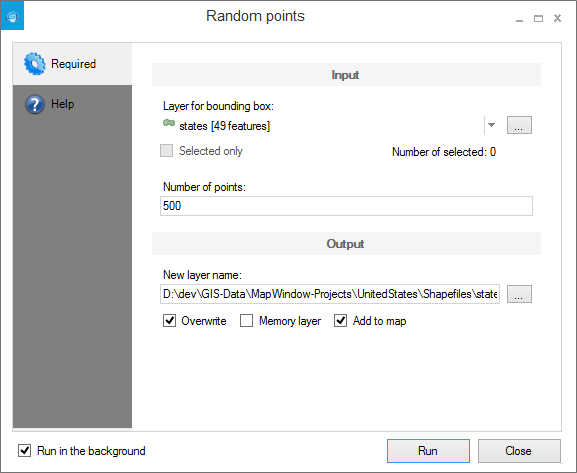
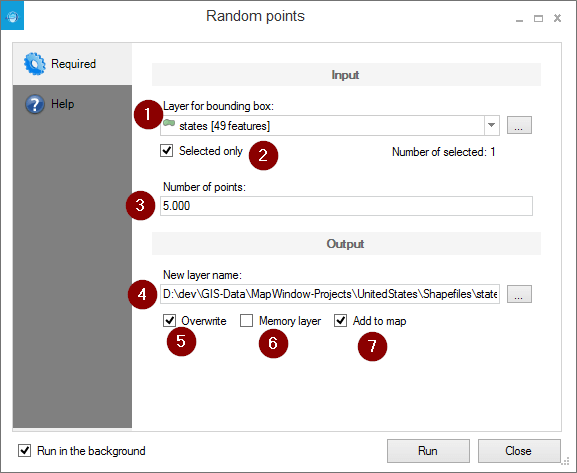
Updated manual for the random points tool and updated the template manual. I can now create the other manuals.

diff --git a/src/MW5.Tools/Manuals/RandomPointsTool.html b/src/MW5.Tools/Manuals/RandomPointsTool.html
@@ -34,32 +34,37 @@
                 <h1>Random points tool</h1>
                 If you need randomly generated point within a certain bounding box you can use this tool. Those points can, for example, be used to survey.<br />
 
-                <img class="img-responsive" style="float: left;" src="img/randompoints_required.png" alt="Required tab of the Random Points tool" width="577" height="473" />
-                <img class="img-responsive hidden-xs" style="float: right; margin-left: 5px;" src="img/randompoints_task.png" alt="Task of the Random Points tool" width="304" height="430" />
-                <br style="clear: left;" />
-                <p style="clear: both;">
-                    First determine the bounding box by selecting a layer.<br />
-                    Next select the number of points that should be created.<br />
-                    The output layer name is generated based on the input layer, but can be modified.<br />
-                    Check 'Overwrite' if you want to overwrite existing files. You'll be prompted otherwise if the output file already exists.<br />
-                    Check 'Memory layer' if you don't wan't to save the file to disk, but keep it only in memory.<br />
-                    'Add to map' is checked by default and will add the result to the map.<br />
-                    In the 'Tasks' panel you can see the progress of this task.
-                </p>
+                <figure>
+                    <img class="img-responsive" src="img/randompoints_required.png" alt="Required tab of the Random Points tool" width="577" height="473" />
+                    <figcaption>The required options for this tool.</figcaption>
+                </figure>
+                <ol>
+                    <li>Select the layer which bounding box will be used.</li>
+                    <li>Optionally select if only the selected shapes should be used for the bounding box.</li>
+                    <li>Select the number of points that should be created.</li>
+                    <li>The output layer name is generated based on the input layer, but can be modified.</li>
+                    <li>Check 'Overwrite' if you want to overwrite existing files. You'll be prompted otherwise if the output file already exists.</li>
+                    <li>Check 'Memory layer' if you don't want to save the file to disk, but make it only in memory.</li>
+                    <li>'Add to map' is checked by default and will add the result to the map.</li>
+                </ol>
+                <figure>
+                    <img class="img-responsive" src="img/randompoints_result.png" alt="The result of only using a selected state." width="971" height="844" />
+                    <figcaption>The result, only using a selected state.</figcaption>
+                </figure>
             </article>
         </div>
     </section>
 
     <section class="container">
         <div class="row" style="background-color: white">
-            <article class="col-md-4 hidden-xs">
+            <article class="col-lg-4 col-md-6 col-sm-6 col-xs-12">
                 <!-- 300x250 ad tag -->
                 <div data-type="ad" data-publisher="mapwindow.org" data-zone="ron" data-format="300x250" data-tags="GIS%2cMapping%2cMap%2cC%23%2cMaps%2cWMS%2cgeospatial"></div>
             </article>
-            <article class="col-md-4 hidden-xs">
+            <article class="col-lg-4 col-md-6 col-sm-6 hidden-xs">
                 <div data-type="ad" data-publisher="mapwindow.org" data-zone="ron" data-format="300x250" data-tags="open%2csource%2cdesktop%2cNET2cmicrosoft"></div>
             </article>
-            <article class="col-md-4 hidden-xs">
+            <article class="col-lg-4 hidden-md hidden-sm hidden-xs">
                 <div data-type="ad" data-publisher="mapwindow.org" data-zone="ron" data-format="300x250" data-tags="GIS%2csyncfusion%2cfree"></div>
             </article>
         </div>
@@ -67,7 +72,7 @@
         <hr>
 
         <footer>
-            <div class="footer-ad" data-type="ad" data-publisher="mapwindow.org" data-zone="ron" data-format="728x90" data-tags="GIS%2cMapping%2cMap%2cC%23%2cMaps%2cWMS%2cgeospatial">&nbsp;</div>            
+            <div class="footer-ad hidden-xs" data-type="ad" data-publisher="mapwindow.org" data-zone="ron" data-format="728x90" data-tags="GIS%2cMapping%2cMap%2cC%23%2cMaps%2cWMS%2cgeospatial">&nbsp;</div>            
             <p>&copy; MapWindow Developers Team 2015</p>
         </footer>
     </section> <!-- /container -->

diff --git a/src/MW5.Tools/Manuals/Template.html b/src/MW5.Tools/Manuals/Template.html
@@ -32,21 +32,25 @@
             <div class="row">
                 <article class="col-md-12 col-xs-12">
                     <h1>Name of tool</h1>
-                    Put your text here.
+                    <figure>
+                        <img class="img-responsive" src="img/randompoints_required.png" alt="Required tab of the Random Points tool" width="577" height="473" />
+                        <figcaption>The required options for this tool.</figcaption>
+                    </figure>
+
                 </article>
             </div>
         </section>
 
         <section class="container">
             <div class="row" style="background-color: white">
-                <article class="col-md-4 hidden-xs">
+                <article class="col-lg-4 col-md-6 col-sm-6 col-xs-12">
                     <!-- 300x250 ad tag -->
                     <div data-type="ad" data-publisher="mapwindow.org" data-zone="ron" data-format="300x250" data-tags="GIS%2cMapping%2cMap%2cC%23%2cMaps%2cWMS%2cgeospatial"></div>
                 </article>
-                <article class="col-md-4 hidden-xs">
+                <article class="col-lg-4 col-md-6 col-sm-6 hidden-xs">
                     <div data-type="ad" data-publisher="mapwindow.org" data-zone="ron" data-format="300x250" data-tags="open%2csource%2cdesktop%2cNET2cmicrosoft"></div>
                 </article>
-                <article class="col-md-4 hidden-xs">
+                <article class="col-lg-4 hidden-md hidden-sm hidden-xs">
                     <div data-type="ad" data-publisher="mapwindow.org" data-zone="ron" data-format="300x250" data-tags="GIS%2csyncfusion%2cfree"></div>
                 </article>
             </div>
@@ -54,7 +58,7 @@
             <hr>
 
             <footer>
-                <div class="footer-ad" data-type="ad" data-publisher="mapwindow.org" data-zone="ron" data-format="728x90" data-tags="GIS%2cMapping%2cMap%2cC%23%2cMaps%2cWMS%2cgeospatial">&nbsp;</div>
+                <div class="footer-ad hidden-xs" data-type="ad" data-publisher="mapwindow.org" data-zone="ron" data-format="728x90" data-tags="GIS%2cMapping%2cMap%2cC%23%2cMaps%2cWMS%2cgeospatial">&nbsp;</div>
                 <p>&copy; MapWindow Developers Team 2015</p>
             </footer>
         </section> <!-- /container -->

diff --git a/src/MW5.Tools/Manuals/css/mw5.css b/src/MW5.Tools/Manuals/css/mw5.css
@@ -59,7 +59,7 @@ table.googlesheet {
 
 div.row {
     border-radius: 20px;
-    background-color: gainsboro;
+    background-color: #8ec0e7;
     margin-bottom: 1em;
 }
 
@@ -84,3 +84,21 @@ article {
         box-shadow: 10px 10px 30px 0 #8688a3;
         box-shadow: 10px 10px 30px 0 rgba(134,136,163,1);
     }
+figure {
+    position: relative;
+    margin: 1.5em 0;
+    margin-right: 1em;
+    border-top: 1px dotted #029dcb;
+    border-bottom: 1px dotted #029dcb;
+}
+figure img {
+    margin: .75em auto;
+}
+figcaption {
+    clear: left;
+    margin: .75em 0;
+    text-align: center;
+    font-style: italic;
+    line-height: 1.5em;
+    font-weight: bold;
+}
